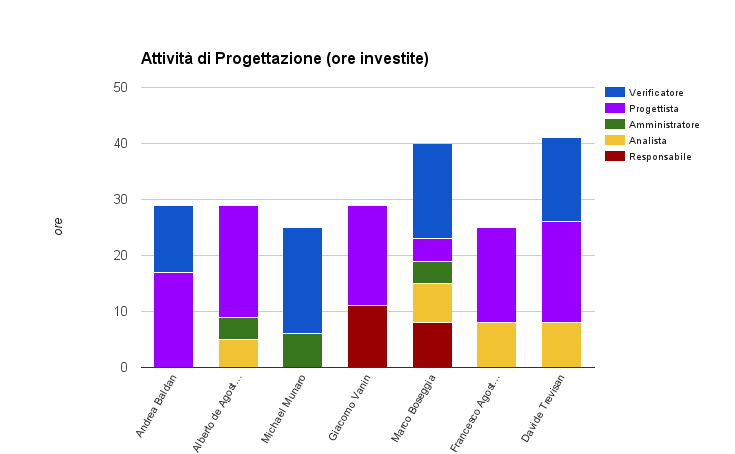
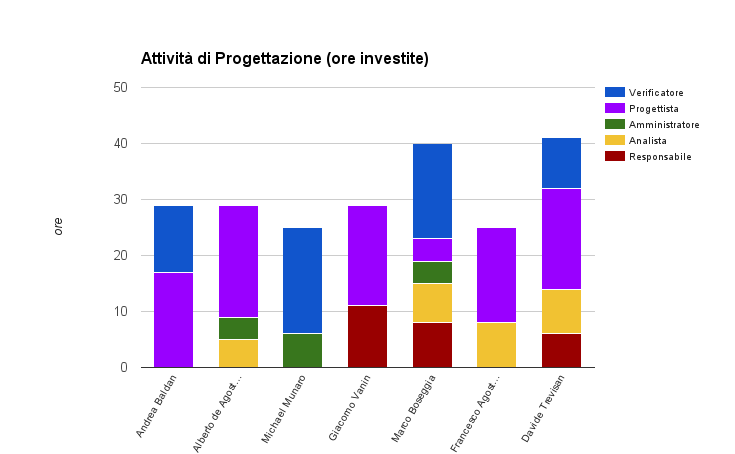
Aggiornate le tabelle nel piano di progetto e relativi grafici

diff --git a/RR/Esterni/PianoDiProgetto_v0.1.1.tex b/RR/Esterni/PianoDiProgetto_v0.1.1.tex
@@ -322,7 +322,7 @@ Durante l'attività di Progettazione, i componenti ricopriranno i ruoli di proge
     Giacomo Vanin & 11 & 10 & & & & & 18 & 16 & & & & & 29 & 26\\
     Marco Boseggia & 8 & 7 & 7 & 6 & 4 & 3 & 4 & 3 & & & 17 & 15 & 40 & 34\\
     Francesco Agostini & & & 8 & 7 & & & 17 & 15 & & & & & 25 & 22\\
-    Davide Trevisan & & & 8 & 6 & & & 18 & 16 & & & 15 & 12 & 41 & 34\\
+    Davide Trevisan & 6 & 6 & 8 & 6 & & & 18 & 16 & & & 9 & 8 & 41 & 36\\
     \hline
   \end{tabular}
 \end{center}
@@ -357,7 +357,7 @@ Durante l'attività di Codifica, i componenti ricopriranno i ruoli di progetto s
     Giacomo Vanin & & & & & 6 & 5 & & & 25 & 22 & 24 & 18 & 55 & 45\\
     Marco Boseggia & & & & & & & 22 & 19 & 21 & 19 & & & 43 & 38\\
     Francesco Agostini & 8 & 7 & & & & & 20 & 18 & 10 & 9 & 20 & 18 & 58 & 52\\
-    Davide Trevisan & 6 & 6 & & & 4 & 3 & 21 & 19 & 10 & 9 & 13 & 9 & 54 & 46\\
+    Davide Trevisan & & & & & 4 & 3 & 19 & 17 & 10 & 9 & 16 & 14 & 49 & 43\\
     \hline
   \end{tabular}
 \end{center}
@@ -392,7 +392,7 @@ Per la durata complessiva del progetto, i componenti ricopriranno i ruoli di pro
     Giacomo Vanin & 11 & 10 & 17 & 14 & 6 & 5 & 18 & 16 & 25 & 22 & 43 & 35 & 120 & 102\\
     Marco Boseggia & 8 & 7 & 25 & 22 & 4 & 3 & 26 & 22 & 21 & 19 & 33 & 30 & 117 & 103\\
     Francesco Agostini & 8 & 7 & 18 & 16 & 10 & 8 & 37 & 33 & 10 & 9 & 34 & 30 & 117 & 103\\
-    Davide Trevisan & 6 & 6 & 22 & 18 & 4 & 3 & 39 & 35 & 10 & 9 & 41 & 32 & 122 & 103\\
+    Davide Trevisan & 6 & 6 & 22 & 18 & 4 & 3 & 37 & 33 & 10 & 9 & 38 & 33 & 117 & 102\\
     \hline
   \end{tabular}
 \end{center}
